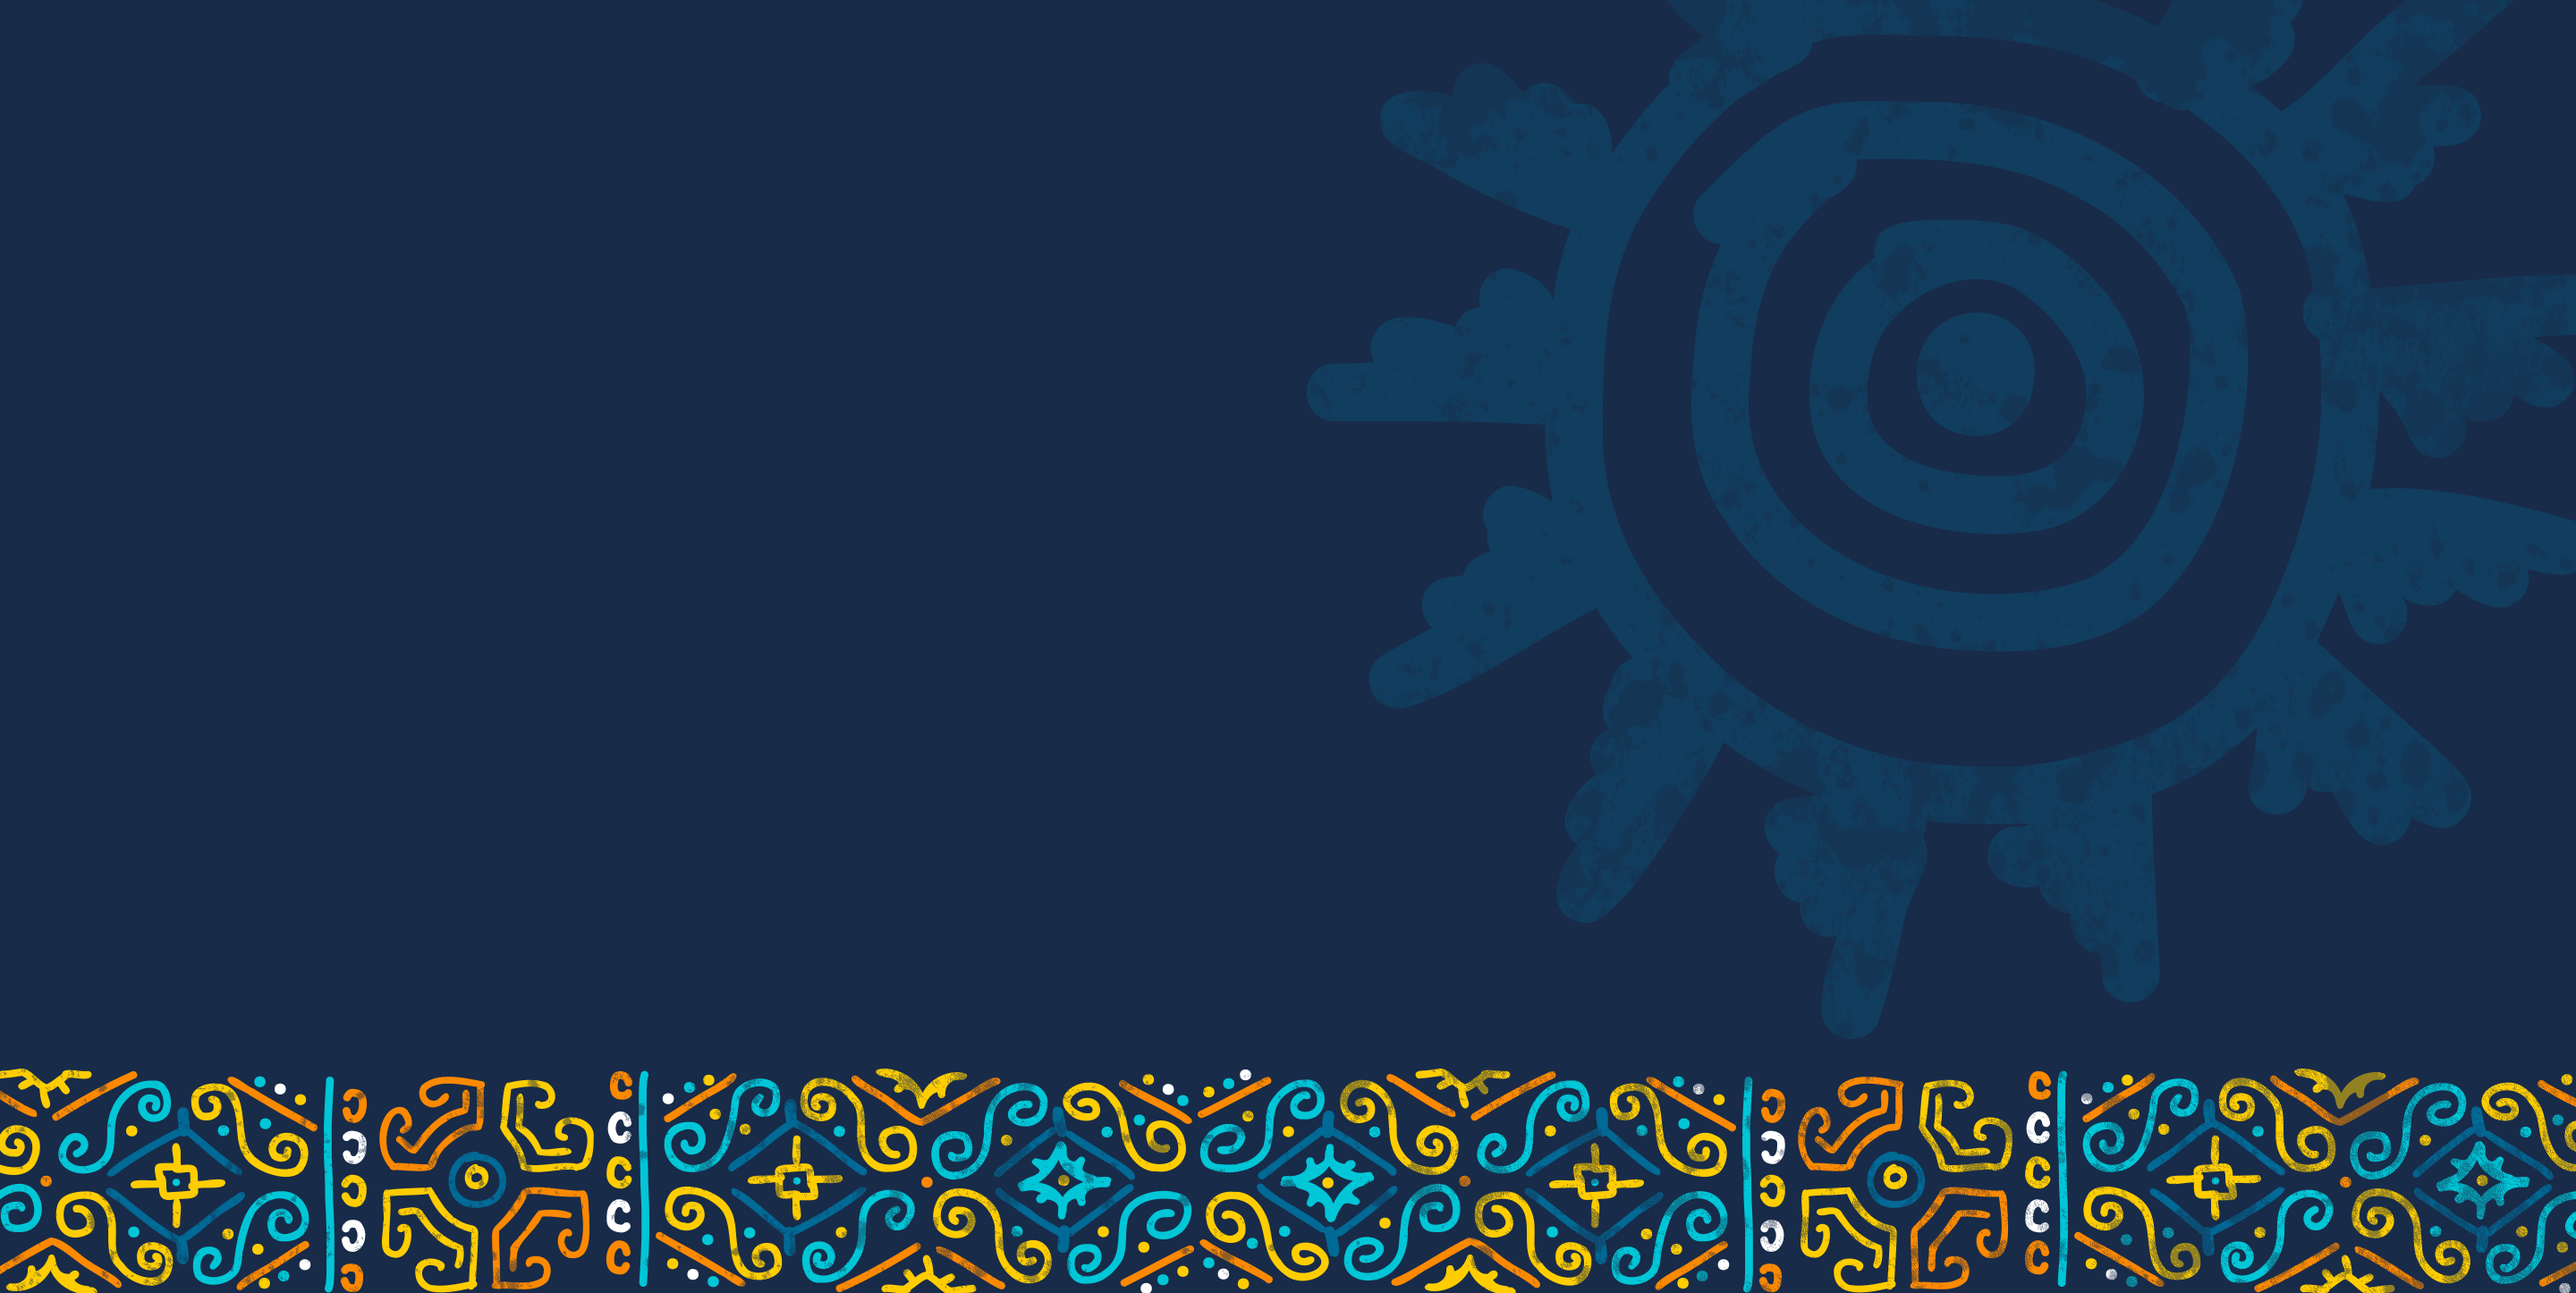
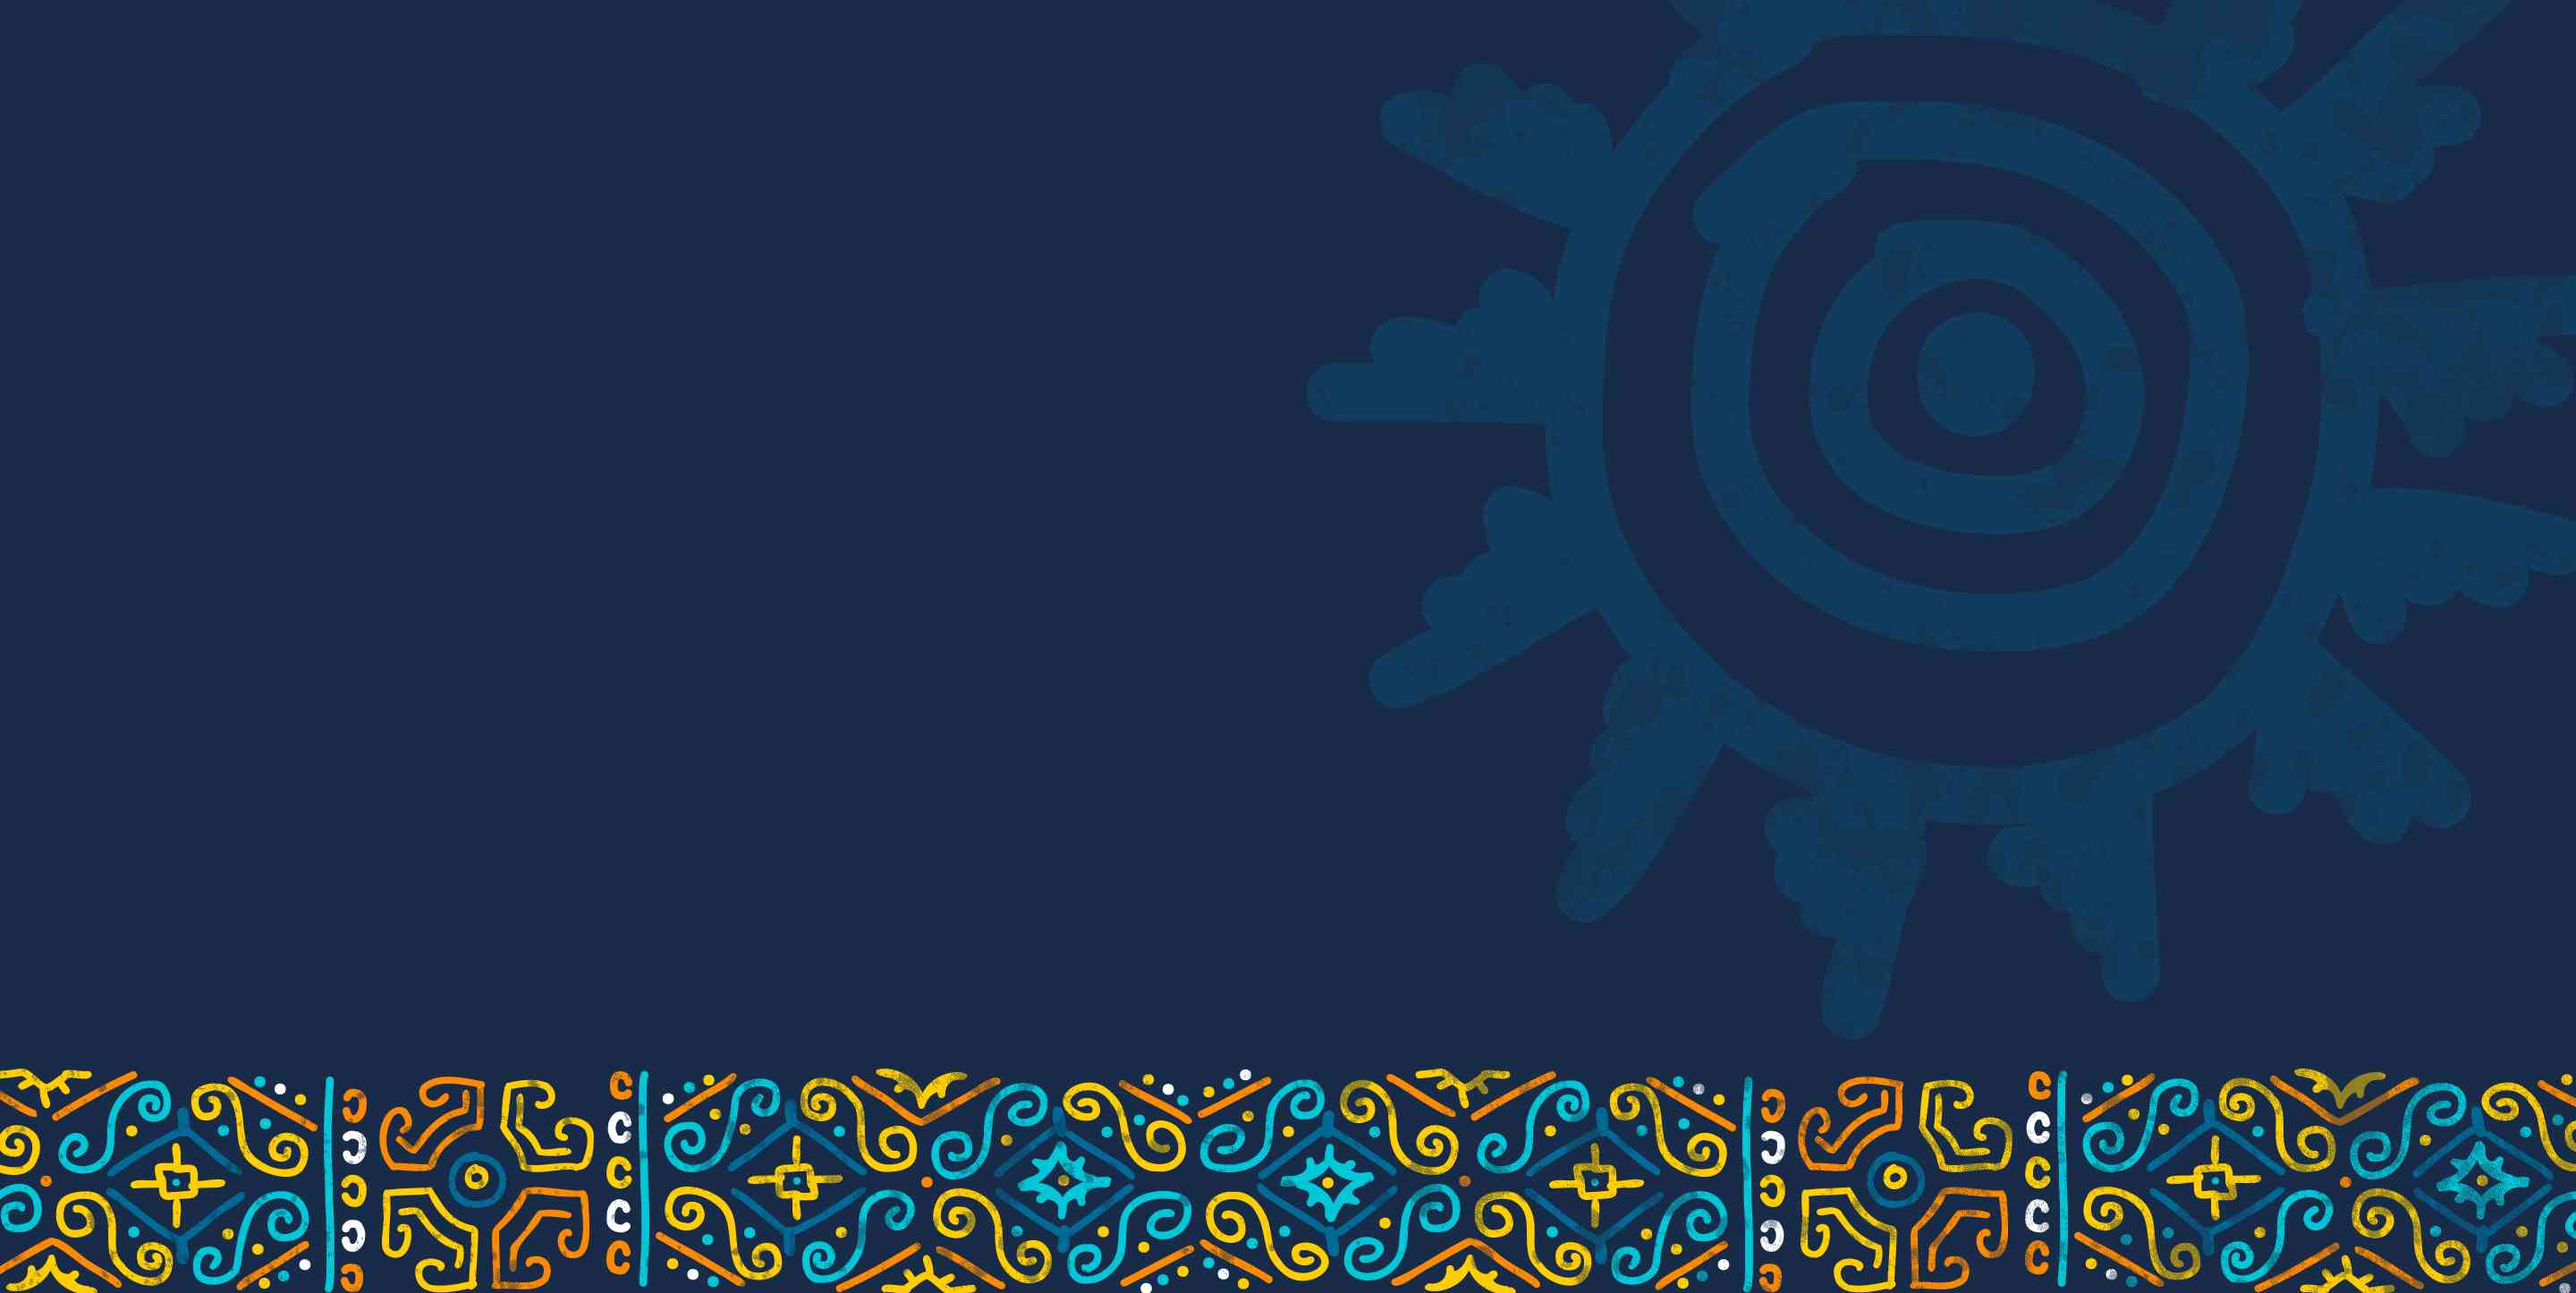
compress images and optimize formats

Changed region(s): [[0.0, 0.8091, 1.0, 1.0]]

diff --git a/ucsd.edu/index.html b/ucsd.edu/index.html
@@ -32,7 +32,8 @@
     <!-- Site-specific CSS files -->
 
     <link href="../www.ucsd.edu/_resources/css/vendor/brix_sans.css" rel="stylesheet" type="text/css" /> <!--replaced-->
-    <link href="../www.ucsd.edu/_resources/css/vendor/refrigerator_deluxe.css" rel="stylesheet" type="text/css" /> <!--replaced-->
+    <link href="../www.ucsd.edu/_resources/css/vendor/refrigerator_deluxe.css" rel="stylesheet" type="text/css" />
+    <!--replaced-->
 
     <!-- CSS complied from style overrides -->
     <link href="../www.ucsd.edu/_resources/css/styles.css" rel="stylesheet" /> <!--replaced-->
@@ -50,7 +51,8 @@
     <!-- Slick Slider for custom carousel -->
     <link href="../www.ucsd.edu/_resources/css/vendor/slick.css" rel="stylesheet" type="text/css" /> <!--replaced-->
     <!--  Slick Slider Theme -->
-    <link href="../www.ucsd.edu/_resources/css/vendor/slick-theme.css" rel="stylesheet" type="text/css" /><!--replaced-->
+    <link href="../www.ucsd.edu/_resources/css/vendor/slick-theme.css" rel="stylesheet" type="text/css" />
+    <!--replaced-->
 
     <!-- HTML5 shim and Respond.js for IE8 support of HTML5 elements and media queries -->
     <!--[if lt IE 9]>
@@ -476,7 +478,7 @@
                 <div class="item active ">
 
                     <img alt="Two researchers look at large wildfire camera feeds" class="first-slide"
-                        src="_images/homepage/img-hero-wildfire-video-2023.jpg" tabindex="0" />
+                        src="_images/homepage/img-hero-wildfire-video-2023.webp" tabindex="0" />
 
                     <div class="container">
                         <div class="cr-item-container ">
@@ -533,7 +535,7 @@
                 <div class="item  dark-blue-gradient">
 
                     <img alt="Latinx Heritage Month banner" class="first-slide"
-                        src="_images/homepage/LHM-2023-HomepageHeader-2880-1446.jpg" tabindex="0" />
+                        src="_images/homepage/LHM-2023-HomepageHeader-2880-1446.webp" tabindex="0" />
 
                     <div class="container">
                         <div class="cr-item-container ">
@@ -541,7 +543,8 @@
                                 <div class="col-sm-12">
                                     <div class="text-indent text-indent-h1 animated fadeInUp">
                                         <h1 aria-hidden="true" class=" rt-text-small " tabindex="0">Celebrating
-                                            <br /><span> Latinx Heritage Month</span></h1>
+                                            <br /><span> Latinx Heritage Month</span>
+                                        </h1>
                                         <h1 class="sr-only">Celebrating Latinx Heritage Month</h1>
                                         <p class=" ">The UC San Diego community is invited to join in the commemoration
                                             of Latinx Heritage Month during the month of October. A series of events has
@@ -616,7 +619,7 @@
 
                         <div>
                             <img alt="" class="img-responsive"
-                                src="_images/homepage/img-feat-stem-education-research.jpg" />
+                                src="_images/homepage/img-feat-stem-education-research.webp" />
                         </div>
 
                     </div>
@@ -716,9 +719,10 @@
                                 href="https://today.ucsd.edu/story/alertcalifornia-and-cal-fires-fire-detection-ai-program-named-one-of-times-best-inventions-of-2023">
                                 <div class="news-content">
                                     <img alt="" class="img-responsive"
-                                        src="_images/homepage/news/ALERTCalifornia-CALFIRE-AI_homepage.jpg" />
+                                        src="_images/homepage/news/ALERTCalifornia-CALFIRE-AI_homepage.webp" />
                                     <p class="news-date">October 24, 2023</p>
-                                    <p class="text-link-no-arrow">ALERTCalifornia and CAL FIRE’s Fire Detection AI Program Named One of TIME’s Best Inventions of 2023</p>
+                                    <p class="text-link-no-arrow">ALERTCalifornia and CAL FIRE’s Fire Detection AI
+                                        Program Named One of TIME’s Best Inventions of 2023</p>
                                 </div>
                             </a>
 
@@ -730,9 +734,10 @@
                                 href="https://today.ucsd.edu/story/computer-science-students-garner-2023-google-phd-fellowships">
                                 <div class="news-content">
                                     <img alt="" class="img-responsive"
-                                        src="_images/homepage/news/img-news-2023-google-fellowship.jpg" />
+                                        src="_images/homepage/news/img-news-2023-google-fellowship.webp" />
                                     <p class="news-date">October 23, 2023</p>
-                                    <p class="text-link-no-arrow">Computer Science Students Garner 2023 Google PhD Fellowships</p>
+                                    <p class="text-link-no-arrow">Computer Science Students Garner 2023 Google PhD
+                                        Fellowships</p>
                                 </div>
                             </a>
 
@@ -744,9 +749,10 @@
                                 href="https://today.ucsd.edu/story/rady-school-celebrates-20-years-of-innovation-and-impact">
                                 <div class="news-content">
                                     <img alt="" class="img-responsive"
-                                        src="_images/homepage/news/rady-school-exterior_homepage.jpg" />
+                                        src="_images/homepage/news/rady-school-exterior_homepage.webp" />
                                     <p class="news-date">October 24, 2023</p>
-                                    <p class="text-link-no-arrow">Rady School Celebrates 20 Years of Innovation and Impact</p>
+                                    <p class="text-link-no-arrow">Rady School Celebrates 20 Years of Innovation and
+                                        Impact</p>
                                 </div>
                             </a>
 
@@ -800,7 +806,7 @@
 
                             <li>
                                 <div class="image"
-                                    style="background-image:url('_images/about/economic-impact-report/img-stats-top-ten.jpg');">
+                                    style="background-image:url('_images/about/economic-impact-report/img-stats-top-ten.webp');">
                                 </div>
                                 <div class="text">
                                     <div class="v-align">
@@ -816,7 +822,7 @@
 
                             <li>
                                 <div class="image"
-                                    style="background-image:url('_images/about/economic-impact-report/img-stats-number-one-public-service.jpg');">
+                                    style="background-image:url('_images/about/economic-impact-report/img-stats-number-one-public-service.webp');">
                                 </div>
                                 <div class="text">
                                     <div class="v-align">
